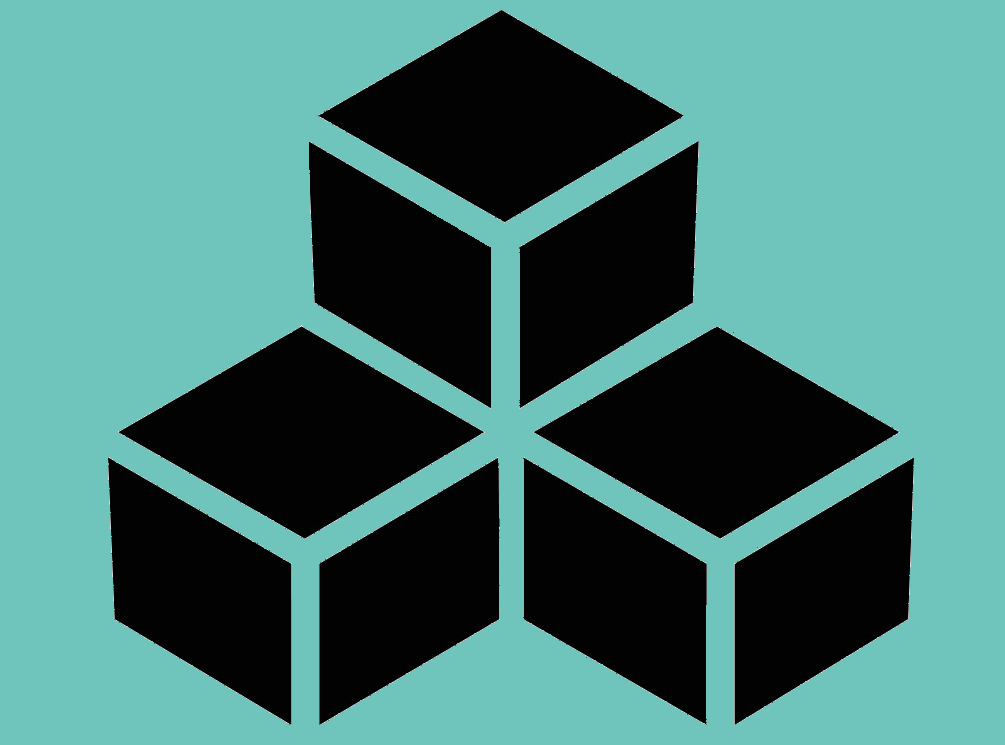
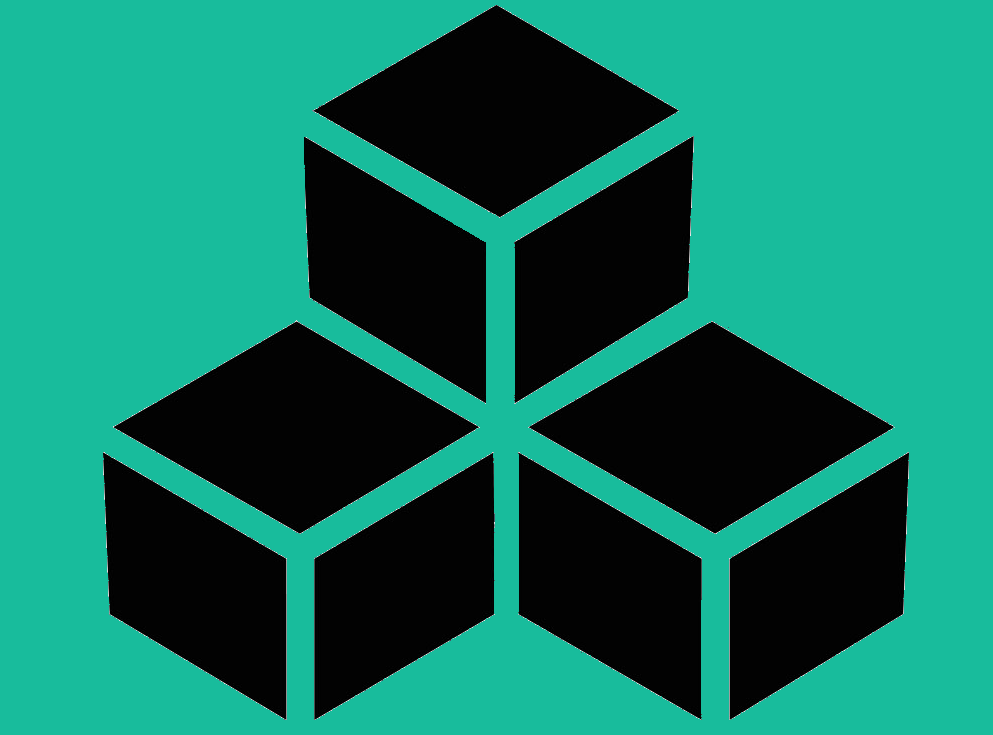
documentation pages started

diff --git a/index.html b/index.html
@@ -61,10 +61,10 @@
                     </li>
                     <li class="page-scroll">
                         <a href="#about">About</a>
-                    </li>
+                    <!--</li>
                     <li class="page-scroll">
                         <a href="#contact">Contact</a>
-                    </li>
+                    </li>-->
                 </ul>
             </div>
             <!-- /.navbar-collapse -->
@@ -77,7 +77,7 @@
         <div class="container">
             <div class="row">
                 <div class="col-lg-12">
-                    <img height="50%" width="50%" class="img-responsive" src="img/cube2.png" alt="">
+                    <img height="50%" width="50%" class="img-responsive" src="img/cube3.png" alt="">
                     <div class="intro-text">
                         <span class="name">Augmonted</span>
                         <hr class="star-light">
@@ -93,7 +93,7 @@
         <div class="container">
             <div class="row">
                 <div class="col-lg-12 text-center">
-                    <h2>Docs</h2>
+                    <h2>Documentation</h2>
                     <hr class="star-primary">
                 </div>
             </div>
@@ -106,6 +106,7 @@
                             </div>
                         </div>
                         <img src="img/documentation/cabin.png" class="img-responsive" alt="">
+			<p align="center">Week 2</p>
                     </a>
                 </div>
                 <div class="col-sm-4 documentation-item">
@@ -116,6 +117,7 @@
                             </div>
                         </div>
                         <img src="img/documentation/cake.png" class="img-responsive" alt="">
+			<p align="center">Week 3</p>
                     </a>
                 </div>
                 <div class="col-sm-4 documentation-item">
@@ -126,6 +128,7 @@
                             </div>
                         </div>
                         <img src="img/documentation/circus.png" class="img-responsive" alt="">
+			<p align="center">Week 4</p>
                     </a>
                 </div>
                 <div class="col-sm-4 documentation-item">
@@ -136,6 +139,7 @@
                             </div>
                         </div>
                         <img src="img/documentation/game.png" class="img-responsive" alt="">
+			<p align="center">Week 5</p>
                     </a>
                 </div>
                 <div class="col-sm-4 documentation-item">
@@ -146,6 +150,7 @@
                             </div>
                         </div>
                         <img src="img/documentation/safe.png" class="img-responsive" alt="">
+			<p align="center">Week 6</p>
                     </a>
                 </div>
                 <div class="col-sm-4 documentation-item">
@@ -156,6 +161,7 @@
                             </div>
                         </div>
                         <img src="img/documentation/submarine.png" class="img-responsive" alt="">
+			<p align="center">Week 7</p>
                     </a>
                 </div>
             </div>
@@ -180,7 +186,7 @@
                 </div>
                 <div class="col-lg-4 col-lg-offset-2">
                     <h3 align="center">Augmonted Team Members</h3>
-		    <h4 align="center"><br>Jonathan Ho<br>Larry Chau<br>Nay Tun<br>Jesse Yeh<br>Joel Schow<br>Rosheni Malik<br></h4>
+		    <h4 align="center"><br><br>Jonathan Ho<br><br>Larry Chau<br><br>Nay Tun<br><br>Jesse Yeh<br><br>Joel Schow<br><br>Rosheni Malik<br></h4>
                 </div>
                 <div class="col-lg-4">
                     <p><br>Augmonted is an augmented reality based combat game, featuring our original Augmon creatures as characters trained by the amount of steps you take calculated through a pedometer. We built this game with the idea of our favorite childhood games in mind, such as Pokemon and Tamagotchi. Our goal was to create a unique experience never done before by implementing our game with augmented reality.<br><br>In addition to these features, we wanted to also try and promote health and wellness by using a simple pedometer to motivate progress in the game. This way, the more steps you take, the more your Augmon character grows and strengthens.<br><br>We believe Augmonted has huge potential in the Android game market because of its unique idea and marketing potential.</p>
@@ -194,7 +200,7 @@
         </div>
     </section>
 
-    <!-- Contact Section -->
+    <!-- Contact Section 
     <section id="contact">
         <div class="container">
             <div class="row">
@@ -204,10 +210,10 @@
                 </div>
             </div>
             <div class="row">
-                <div class="col-lg-8 col-lg-offset-2">
+                <div class="col-lg-8 col-lg-offset-2"> -->
                     <!-- To configure the contact form email address, go to mail/contact_me.php and update the email address in the PHP file on line 19. -->
                     <!-- The form should work on most web servers, but if the form is not working you may need to configure your web server differently. -->
-                    <form name="sentMessage" id="contactForm" novalidate>
+                    <!--<form name="sentMessage" id="contactForm" novalidate>
                         <div class="row control-group">
                             <div class="form-group col-xs-12 floating-label-form-group controls">
                                 <label>Name</label>
@@ -247,7 +253,7 @@
                 </div>
             </div>
         </div>
-    </section>
+    </section> -->
 
     <!-- Footer -->
     <footer class="text-center">
@@ -312,23 +318,24 @@
                 <div class="row">
                     <div class="col-lg-8 col-lg-offset-2">
                         <div class="modal-body">
-                            <h2>Week 3</h2>
+                            <h2>Week 2<br></h2>
+			    <h3>1.11 - 1.17</h3>
                             <hr class="star-primary">
-                            <img src="img/documentation/cabin.png" class="img-responsive img-centered" alt="">
-                            <p>Use this area of the page to describe your project!</p>
+                            <img src="img/day1meeting2.jpg" class="img-responsive img-centered" alt="">
+			    <h3 align="center">Introductions and Brainstorming</h3>
+                            <p>Text</p>
                             <ul class="list-inline item-details">
-                                <li>Client:
-                                    <strong><a href="http://startbootstrap.com">Start Bootstrap</a>
-                                    </strong>
+                                <!--<li>Client:
+                                    <p>Start Bootstrap</p>
                                 </li>
-                                <li>Date:
-                                    <strong><a href="http://startbootstrap.com">April 2014</a>
+                                <li>Dates:
+                                    <strong><p>April 2014</p>
                                     </strong>
                                 </li>
                                 <li>Service:
-                                    <strong><a href="http://startbootstrap.com">Web Development</a>
+                                    <strong><p>Web Development</p>
                                     </strong>
-                                </li>
+                                </li>-->
                             </ul>
                             <button type="button" class="btn btn-default" data-dismiss="modal"><i class="fa fa-times"></i> Close</button>
                         </div>
@@ -349,12 +356,14 @@
                 <div class="row">
                     <div class="col-lg-8 col-lg-offset-2">
                         <div class="modal-body">
-                            <h2>Week 4</h2>
+                            <h2>Week 3<br></h2>
+			    <h3>1.18 - 1.24</h3>
                             <hr class="star-primary">
                             <img src="img/documentation/cake.png" class="img-responsive img-centered" alt="">
-                            <p>Use this area of the page to describe your project!</p>
+			    <h3 align="center">Finalizing Our Idea</h3>
+                            <p>Text</p>
                             <ul class="list-inline item-details">
-                                <li>Client:
+                                <!--<li>Client:
                                     <strong><a href="http://startbootstrap.com">Start Bootstrap</a>
                                     </strong>
                                 </li>
@@ -365,7 +374,7 @@
                                 <li>Service:
                                     <strong><a href="http://startbootstrap.com">Web Development</a>
                                     </strong>
-                                </li>
+                                </li>-->
                             </ul>
                             <button type="button" class="btn btn-default" data-dismiss="modal"><i class="fa fa-times"></i> Close</button>
                         </div>
@@ -386,12 +395,14 @@
                 <div class="row">
                     <div class="col-lg-8 col-lg-offset-2">
                         <div class="modal-body">
-                            <h2>Week 5</h2>
+                            <h2>Week 4<br></h2>
+			    <h3>1.25 - 1.31</h3>
                             <hr class="star-primary">
                             <img src="img/documentation/circus.png" class="img-responsive img-centered" alt="">
-                            <p>Use this area of the page to describe your project!</p>
+                            <h3 align="center">Starting to Code</h3>
+			    <p>Text</p>
                             <ul class="list-inline item-details">
-                                <li>Client:
+                                <!--<li>Client:
                                     <strong><a href="http://startbootstrap.com">Start Bootstrap</a>
                                     </strong>
                                 </li>
@@ -402,7 +413,7 @@
                                 <li>Service:
                                     <strong><a href="http://startbootstrap.com">Web Development</a>
                                     </strong>
-                                </li>
+                                </li>-->
                             </ul>
                             <button type="button" class="btn btn-default" data-dismiss="modal"><i class="fa fa-times"></i> Close</button>
                         </div>
